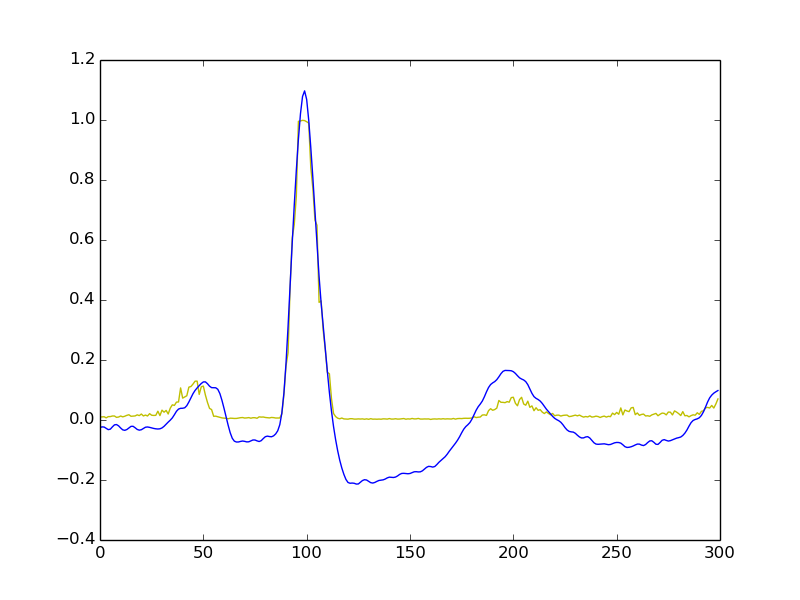
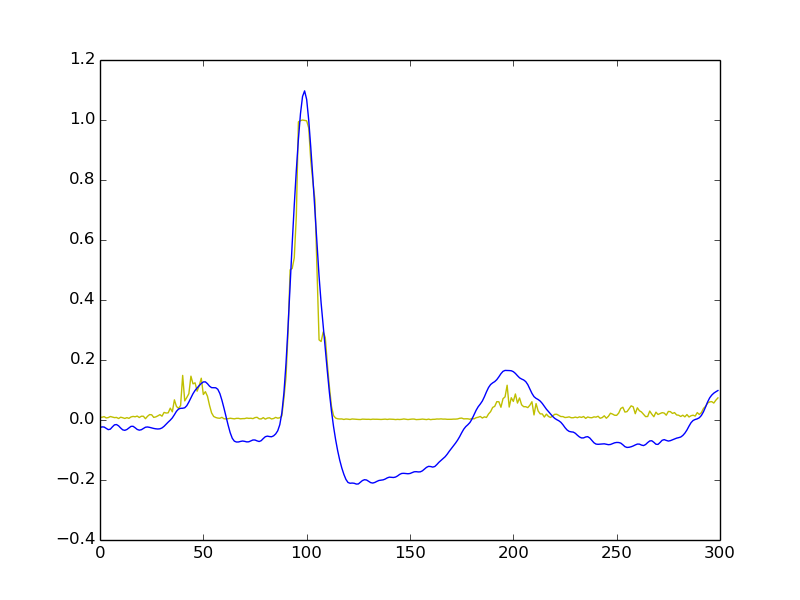
100 hidden 100 epochs

diff --git a/dA.py b/dA.py
@@ -327,7 +327,7 @@ def test_dA(learning_rate=0.001, training_epochs=100,
         theano_rng=theano_rng,
         input=x,
         n_visible=300,
-        n_hidden=50
+        n_hidden=100
     ) 
 
     cost, updates = da.get_cost_updates(
@@ -445,7 +445,6 @@ def test_dA(learning_rate=0.001, training_epochs=100,
 	    total_n+=1
 
         idx+=1
-
     # idx = 0
     # random_data = numpy.random.uniform(0.1,0.7,(10000,300))
     # for i in xrange(len(random_data[0:8])):
